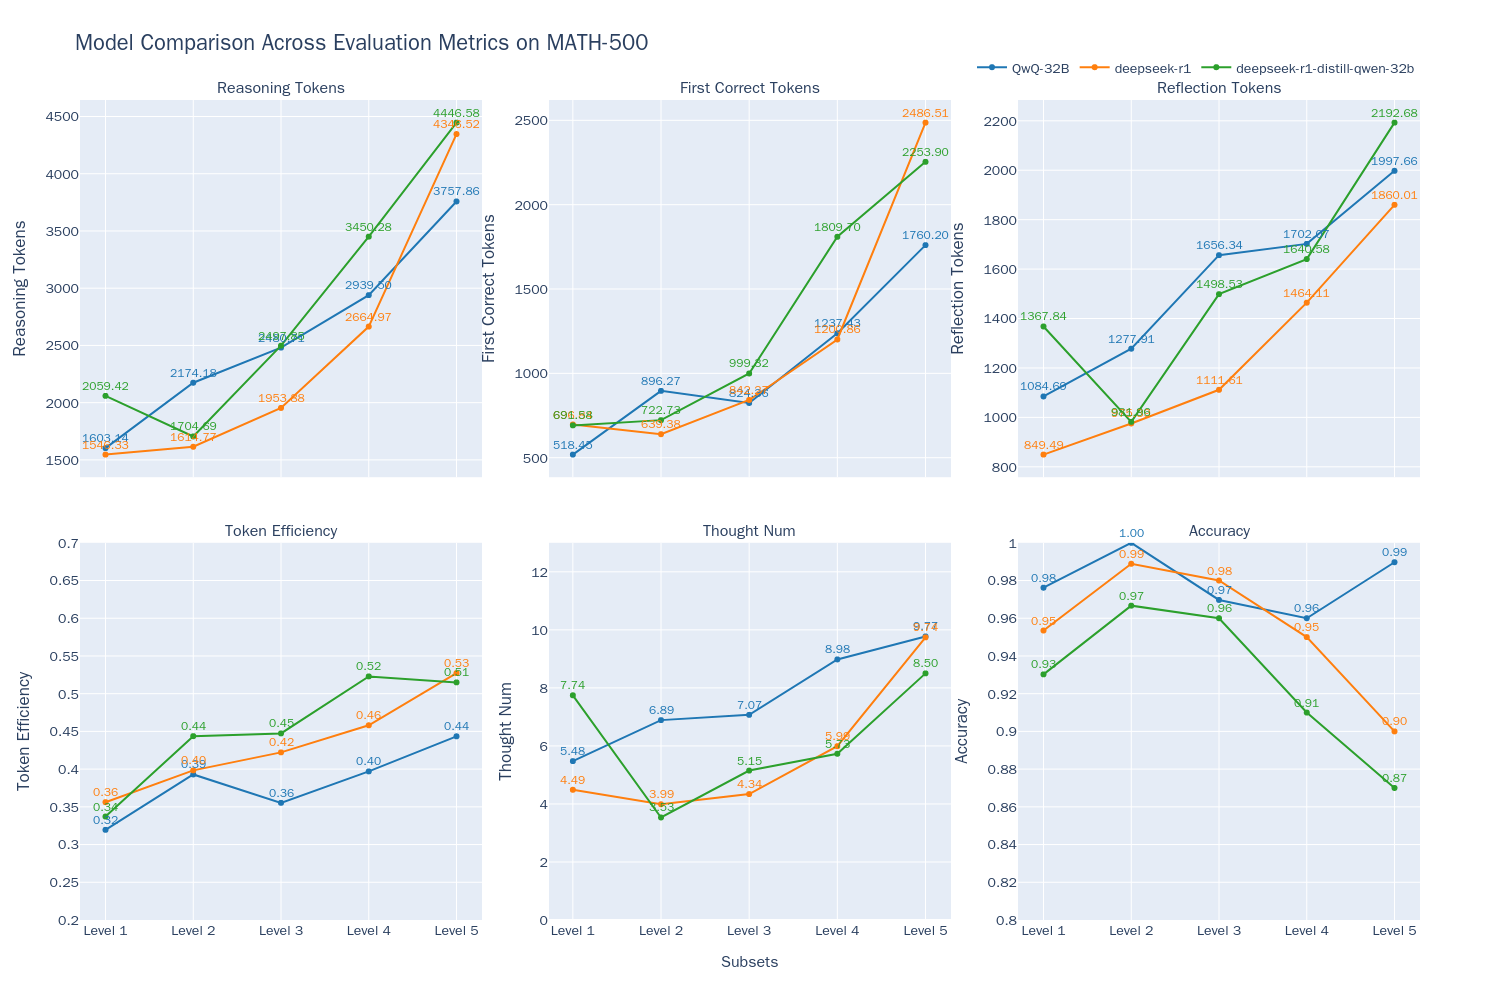
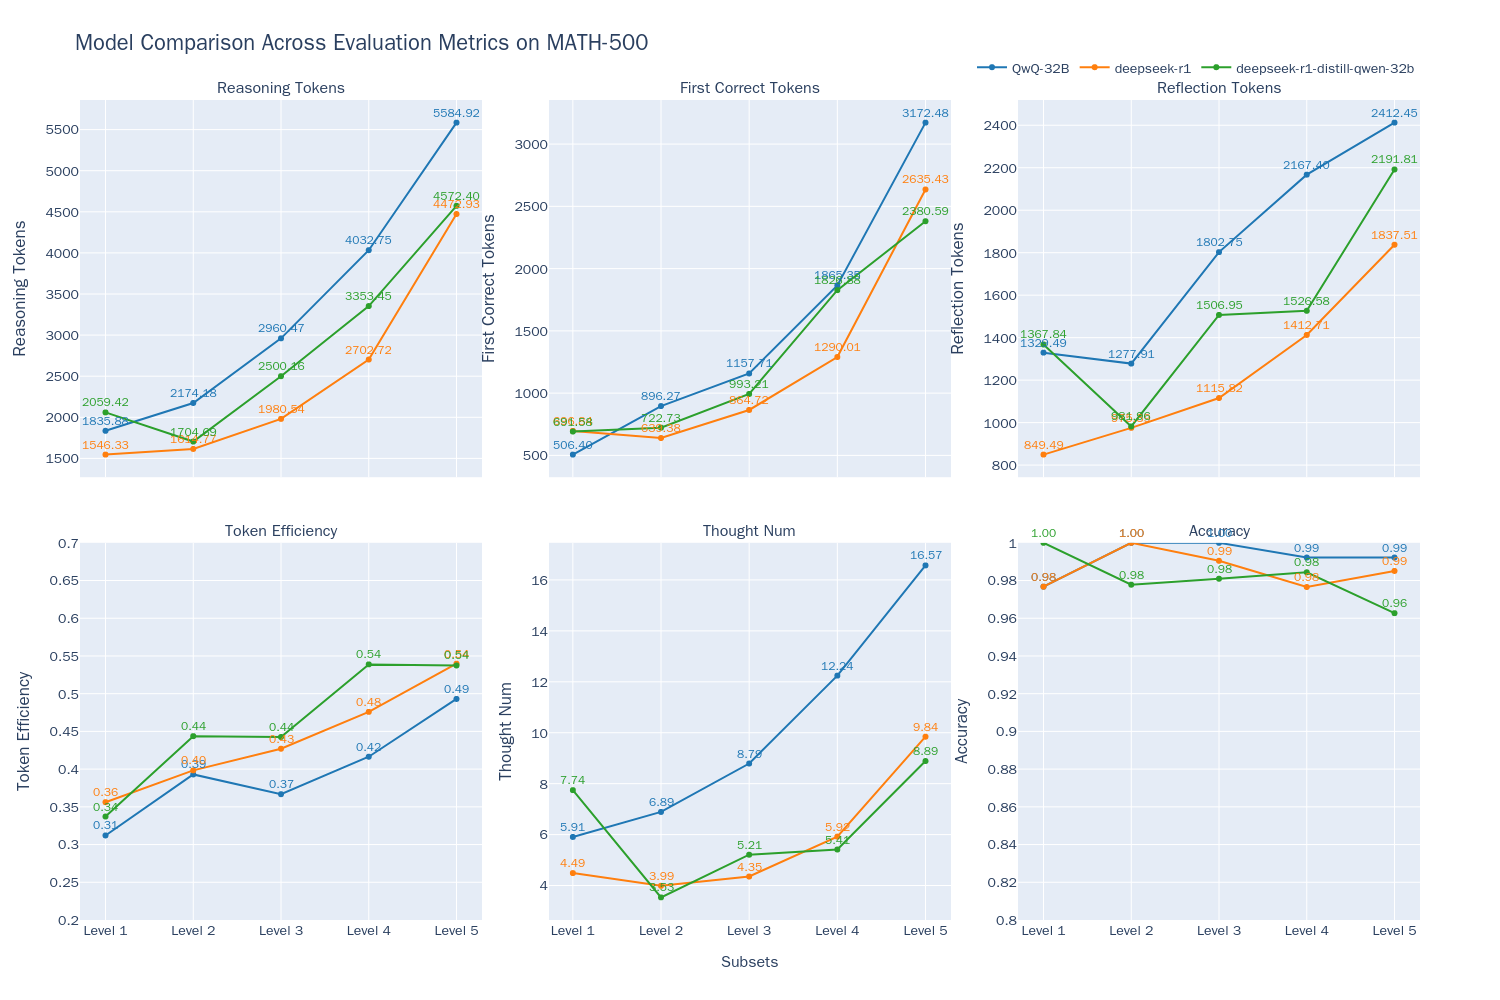
update doc

diff --git a/evalscope/third_party/thinkbench/eval.py b/evalscope/third_party/thinkbench/eval.py
@@ -323,8 +323,6 @@ def combine_results(configs: List[dict], output_path: str):
             fig.update_yaxes(range=[0.2, 0.7], row=row, col=col)
         elif metric == 'accuracy':
             fig.update_yaxes(range=[0.8, 1], row=row, col=col)
-        elif metric == 'thought_num':
-            fig.update_yaxes(range=[0, 13], row=row, col=col)
 
         fig.update_yaxes(title_text=metric.replace('_', ' ').title(), row=row, col=col)
 

diff --git a/docs/zh/best_practice/eval_qwq.md b/docs/zh/best_practice/eval_qwq.md
@@ -157,14 +157,12 @@ model_config = dict(
     judge_config=judge_config
 )
 
-max_tokens = 8000  # 筛选token数量小于max_tokens的输出，用于提升评测效率
-count = 100  # 每个子集筛选count条输出，用于提升评测效率
+max_tokens = 20000  # 筛选token数量小于max_tokens的输出，用于提升评测效率
+count = 200  # 每个子集筛选count条输出，用于提升评测效率
 
 # 评测模型思考效率
 run_task(model_config, output_dir='outputs', max_tokens=max_tokens, count=count)
 ```
-
-**注意：这里设置了`max_tokens`为8000，`count`为100，用于提升评测效率，缩短评测时间。如果需要更精确的评测结果，可以设置更大的`max_tokens`和`count`。**
 
 结果如下图所示：
 
@@ -177,11 +175,9 @@ run_task(model_config, output_dir='outputs', max_tokens=max_tokens, count=count)
 根据这张图表，我可以分析出QwQ-32B模型相比其他两个模型的一些优势和劣势：
 
 优势：
-- 在准确性方面，QwQ-32B在大多数级别上表现最好，尤其是在Level 5这种高难度问题上领先幅度较大。
-- 在首次正确token数方面，QwQ-32B整体表现良好，特别是在高难度问题上表现出色，能更快的获取到正确答案。
+- 在准确性方面，QwQ-32B在大多数级别上表现最好，尤其是在Level 5这种高难度问题上也能保持较高正确率。
 
 劣势：
-- 在推理效率方面，QwQ-32B在低级别（Level 1-3）时使用的token数较多，有较多的反思验证token数，可能意味着在简单任务上效率较低，存在过度分析的问题。
-
+- 在推理效率方面，QwQ-32B在推理时使用的token数较多，有较多的反思验证token数，存在过度分析的问题。
 
 总的来说，QwQ-32B模型似乎在处理高难度任务时表现更好，具有较高的准确性和深度思考能力。然而，在处理较简单的任务时，它可能不如其他模型高效。这个模型可能更适合用于复杂的推理任务，而在日常或简单查询上可能会显得有些"过度"。
